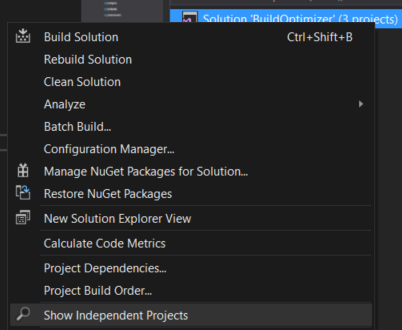
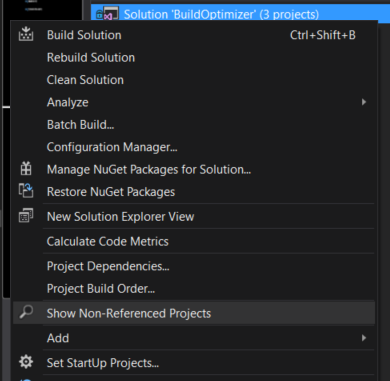
fix command

diff --git a/README.md b/README.md
@@ -29,7 +29,7 @@ Model optimizes the project as follows:
 - Check inner project references on same versions and .dll paths
 - Optimize all references for selected project and build __all projects__ in solution
 
-### Non-referenced Projects
+### Non-Referenced Projects
 
 If you have many projects in one solution, you can probably want to know, which projects are non-referenced (don't referenced by other projects in same solution)
 

diff --git a/CHANGELOG.md b/CHANGELOG.md
@@ -21,3 +21,9 @@ on the official Visual Studio extension gallery.
 **21-07-2017**
 
 - [x] Detailed README
+
+### 1.0.2
+
+**24-07-2017**
+
+- [x] Change Independent Projects Command on Non-Refrenced Projects Command
